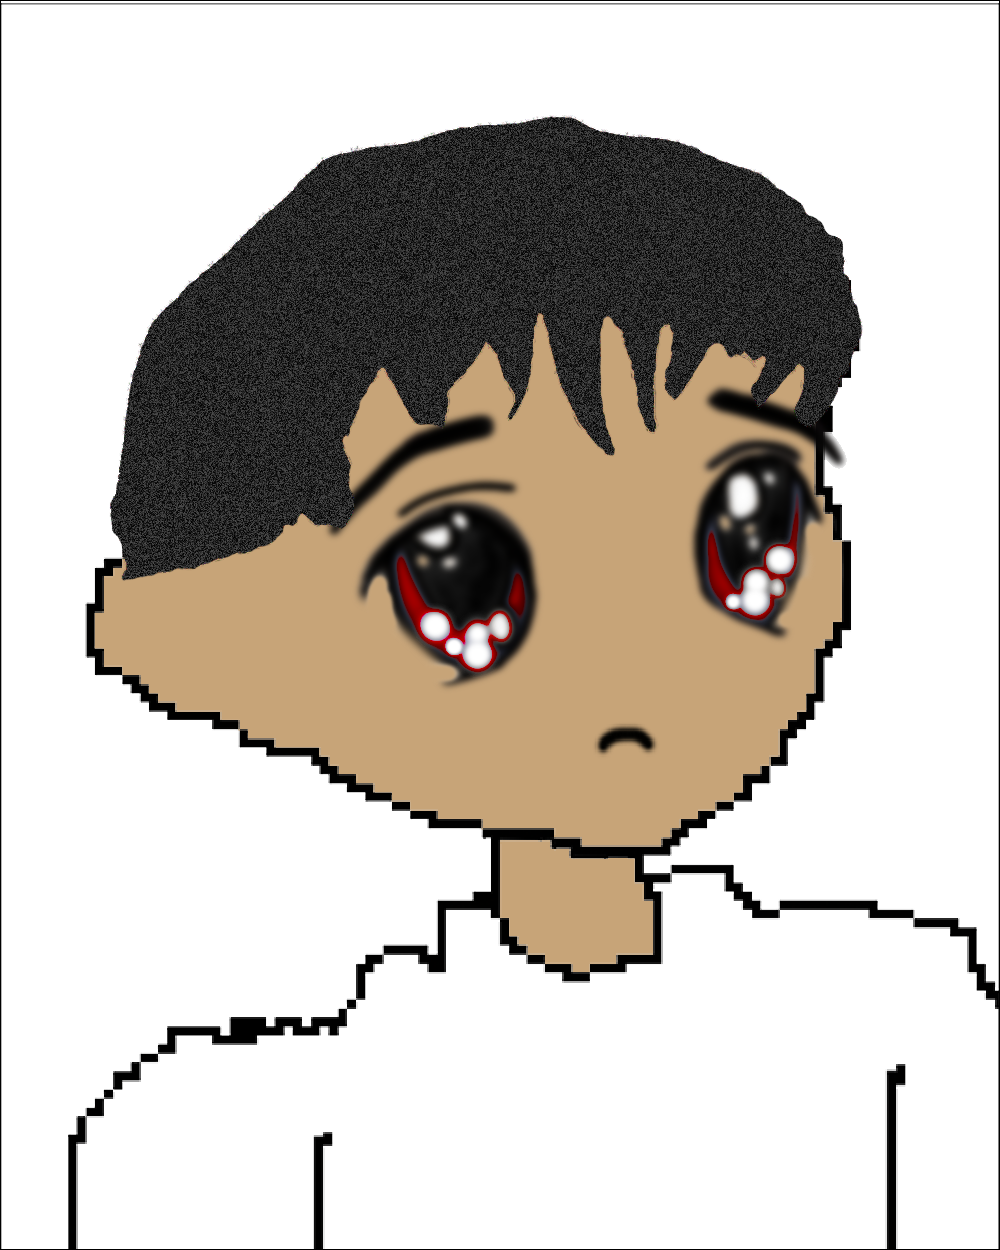
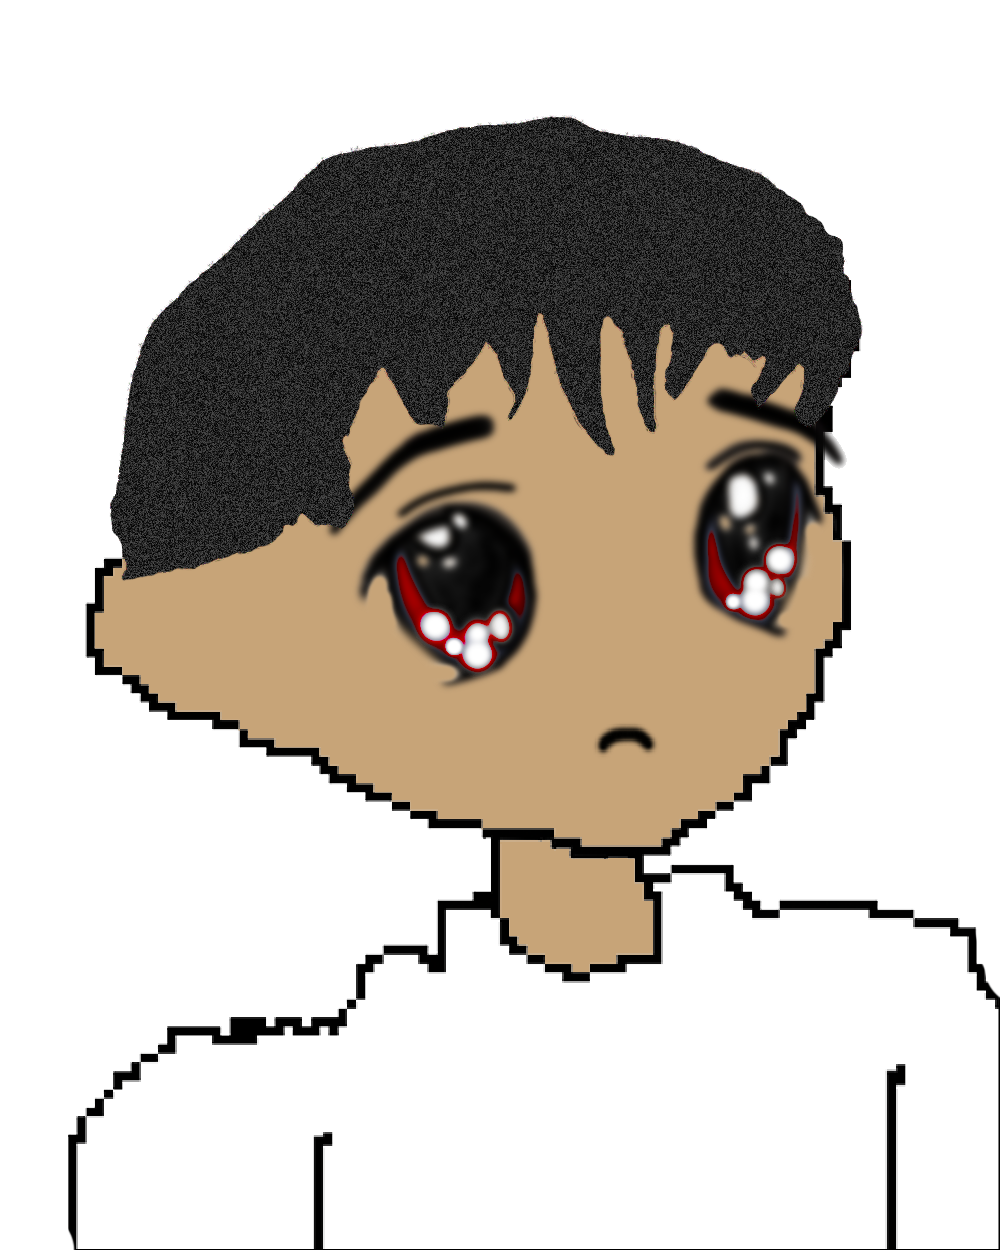
update mifs

Changed region(s): [[0.992, 0.0, 1.0, 0.8112], [0.0, 0.9984, 0.093, 1.0], [0.0, 0.0, 0.031, 0.0312]]

diff --git a/index.html b/index.html
@@ -14,7 +14,7 @@
       rel="stylesheet"
       href="https://storage.googleapis.com/scriptslmt/0.1.4/solana.css"
     />
-
+    <link rel="preload" href="index.js" />
     <link rel="prefetch" href="img/mif/base.png" />
     <link rel="prefetch" href="img/mif/1.png" />
     <link rel="prefetch" href="img/mif/2.png" />
@@ -122,6 +122,8 @@
         background: url('img/mif/base.png') no-repeat;
         background-position: center center;
         background-size: contain;
+        width: 100%;
+        height: 100%;
       }
       .tools,
       .mfapp-colors,

diff --git a/index.js b/index.js
@@ -47,7 +47,7 @@ let coord = { x: 0, y: 0 }
 let paint = false
 let paintcolor = 'black'
 let paintsize = 6
-let bgpattern = ''
+let bgpattern = 'white.png'
 let bgImage = 'url(img/' + bgpattern + ')'
 
 // Updates the coordianates of the cursor when
